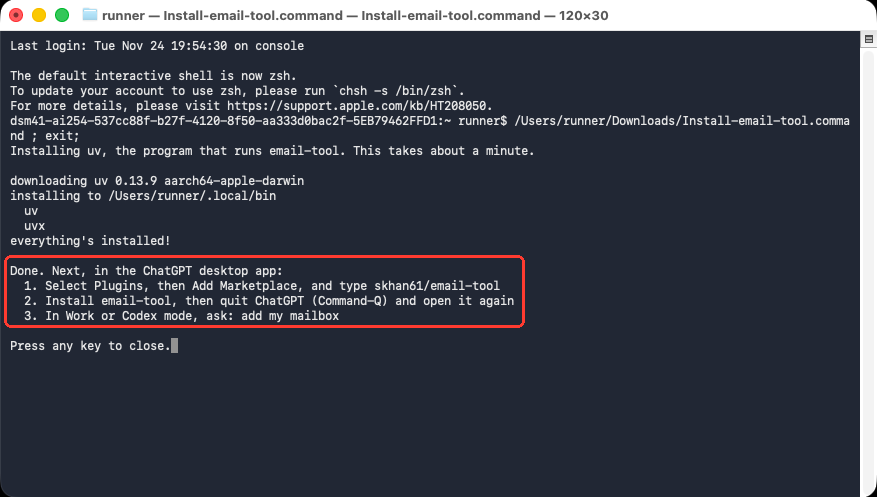
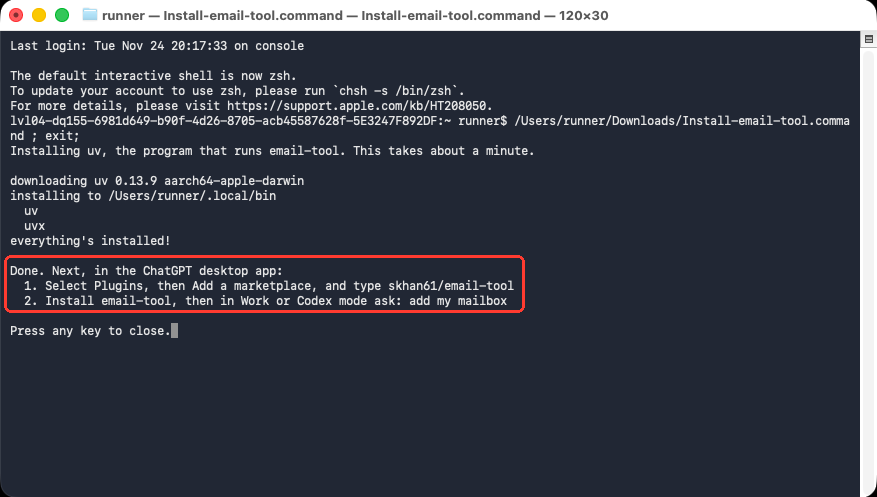
Start here (macOS): the administrator password step, and the installer picture from 5.7.4
Fixes #188

diff --git a/docs/start.md b/docs/start.md
@@ -150,11 +150,16 @@ No terminal.
 
         ![Privacy and Security with the Open Anyway button highlighted](assets/screens/chatgpt-mac/installer-open-anyway.png)
 
-    5. macOS asks once more. Select **Open Anyway**, and type your Mac password if it asks.
+    5. macOS asks once more. Select **Open Anyway**.
 
         ![macOS asks to open Install-email-tool.command, with Open Anyway highlighted](assets/screens/chatgpt-mac/installer-confirm.png){ width="272" }
 
-    6. Terminal opens and installs. Wait until it says **Done**, then close the window.
+    6. macOS asks for an administrator's password. Type your Mac password and select **OK**.
+       On a Mac you do not manage yourself, such as one from work, ask your IT department.
+
+        ![macOS asks for an administrator's password, with the Password box and OK highlighted](assets/screens/chatgpt-mac/installer-password.png){ width="298" }
+
+    7. Terminal opens and installs. Wait until it says **Done**, then close the window.
 
         ![Terminal after the installer, with Done and the next steps highlighted](assets/screens/chatgpt-mac/installer-done.png)
 

diff --git a/CHANGELOG.md b/CHANGELOG.md
@@ -2,6 +2,10 @@
 
 ## Unreleased
 
+### Fixed
+- Start here (macOS): the administrator password is its own step, with its picture, and a Mac someone else
+  manages needs their IT department (#188).
+
 ## 5.7.4
 
 ### Fixed
